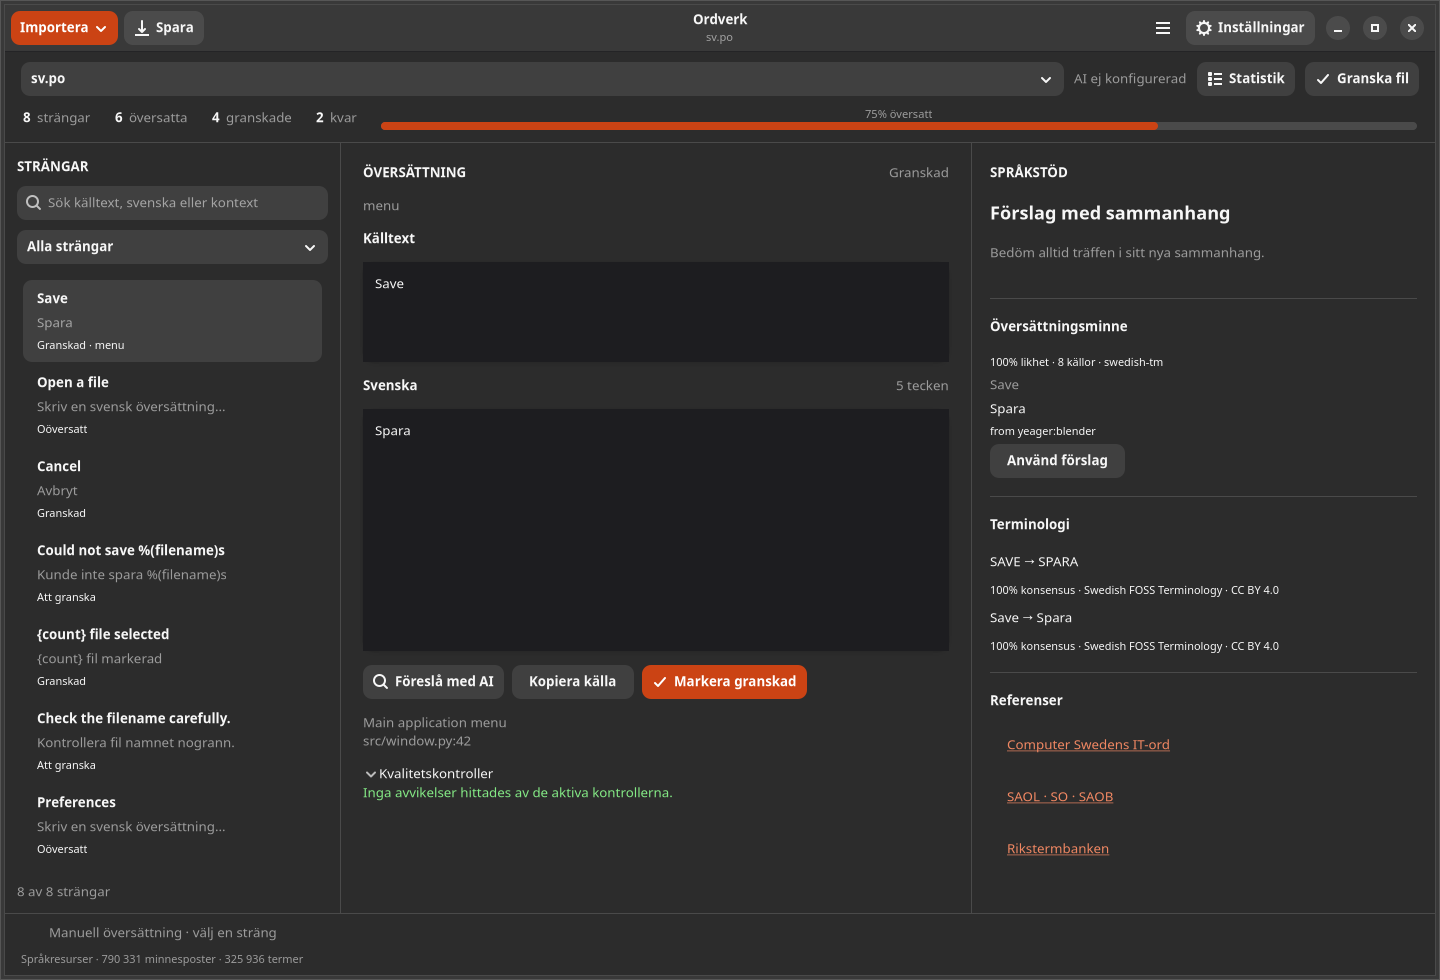
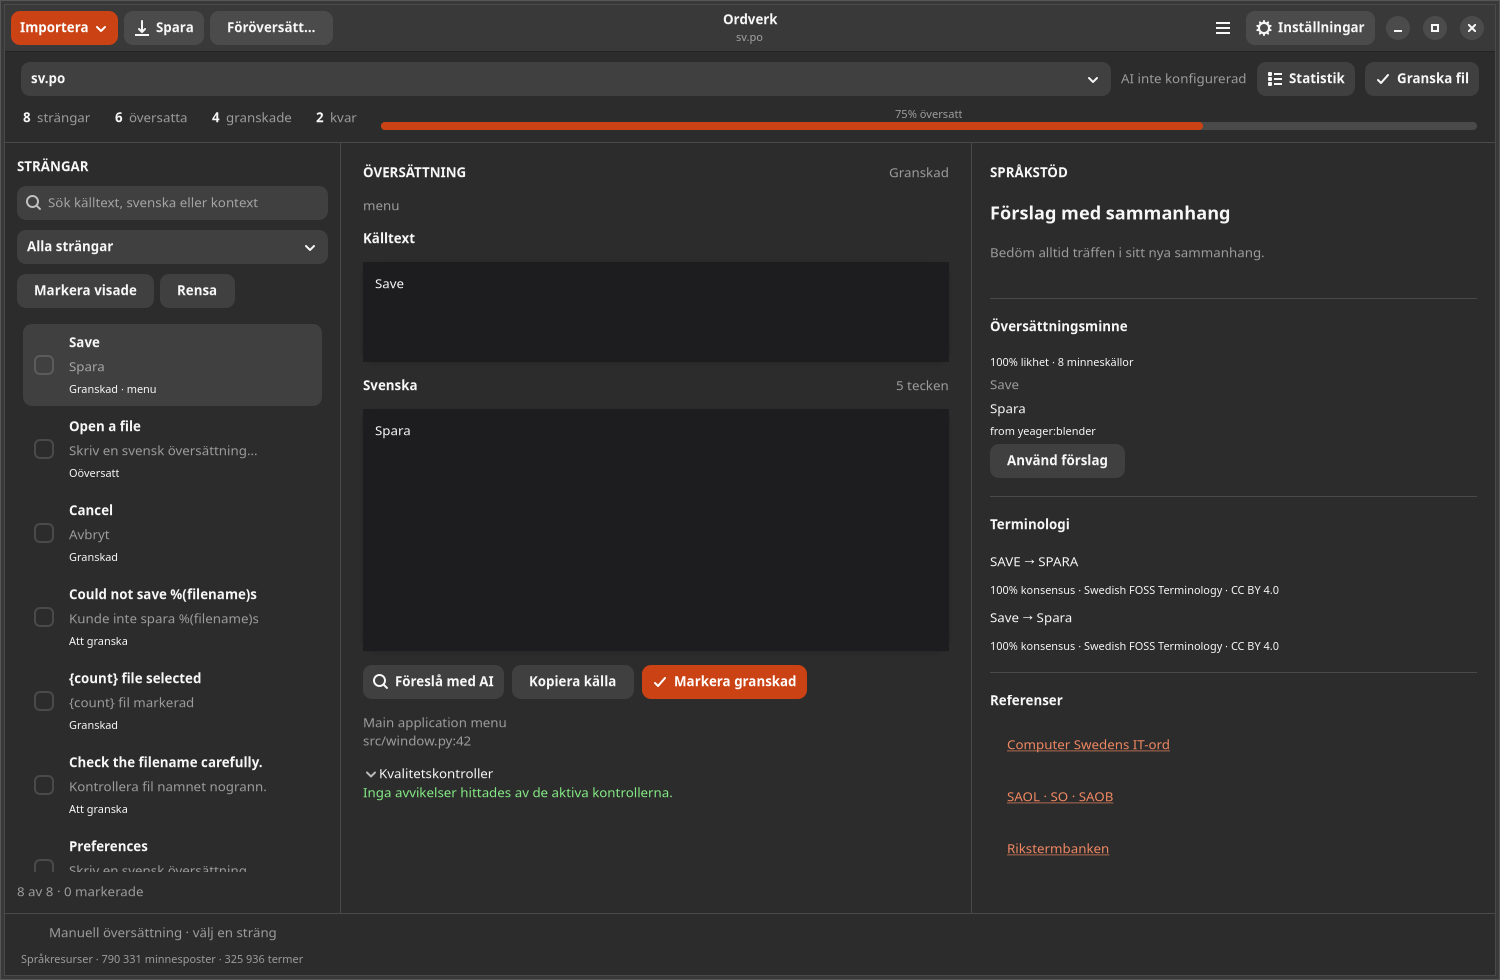
Slutför granskningsflöden, statistik och verifiering inför 0.2

diff --git a/src/ordverk/workflow.py b/src/ordverk/workflow.py
@@ -36,43 +36,43 @@ def batch_translate(catalogs, store, quality, translator=None, *, limit=100, can
     total = min(limit, eligible)
     try:
         for catalog, unit in work:
-                for variant, target in enumerate(unit.targets):
-                    check_cancel(cancel)
-                    if (target and not overwrite) or unit.source_is_key:
-                        continue
-                    if attempted >= limit:
-                        messages.append(f"Gränsen {limit} strängar nåddes. Starta igen för att fortsätta.")
+            for variant, target in enumerate(unit.targets):
+                check_cancel(cancel)
+                if (target and not overwrite) or unit.source_is_key:
+                    continue
+                if attempted >= limit:
+                    messages.append(f"Gränsen {limit} strängar nåddes. Starta igen för att fortsätta.")
+                    return changes, messages
+                attempted += 1
+                progress(f"Översätter {attempted}/{total}: {unit.source_for(variant)[:65]}", attempted - 1, total)
+                exact = store.exact_translation(unit.source_for(variant), unit.context) if method != "ai" else None
+                proposal, origin, issues = None, "", []
+                # Conflicting exact matches need context: don't let frequency silently decide.
+                if exact:
+                    proposal, origin = exact
+                    candidate = copy.deepcopy(unit)
+                    candidate.edit(variant, proposal)
+                    issues = quality.check(candidate, variant)
+                elif translator is not None and method != "resources":
+                    try:
+                        result = translator.suggest(unit, variant, cancel)
+                        proposal, origin, issues = result.translation, f"AI · {result.model}", result.issues
+                    except ValueError as exc:
+                        messages.append(f"{catalog.name}: {exc}")
+                        # Stop on API errors instead of repeatedly spending requests on a failing service.
                         return changes, messages
-                    attempted += 1
-                    progress(f"Översätter {attempted}/{total}: {unit.source_for(variant)[:65]}", attempted - 1, total)
-                    exact = store.exact_translation(unit.source_for(variant), unit.context) if method != "ai" else None
-                    proposal, origin, issues = None, "", []
-                    # Conflicting exact matches need context: don't let frequency silently decide.
-                    if exact:
-                        proposal, origin = exact
-                        candidate = copy.deepcopy(unit)
-                        candidate.edit(variant, proposal)
-                        issues = quality.check(candidate, variant)
-                    elif translator is not None and method != "resources":
-                        try:
-                            result = translator.suggest(unit, variant, cancel)
-                            proposal, origin, issues = result.translation, f"AI · {result.model}", result.issues
-                        except ValueError as exc:
-                            messages.append(f"{catalog.name}: {exc}")
-                            # Stop on API errors instead of repeatedly spending requests on a failing service.
-                            return changes, messages
-                    if proposal is not None and proposal != target:
-                        if any(issue.severity == "error" for issue in issues):
-                            messages.append(f"{unit.source_for(variant)[:70]}: förslag stoppat av kvalitetsfel.")
-                        else:
-                            changes.append(Change(catalog, unit.key, unit.revision, variant, target, proposal, origin, issues))
-                    progress(f"Föröversätter {attempted}/{total}", attempted, total)
+                if proposal is not None and proposal != target:
+                    if any(issue.severity == "error" for issue in issues):
+                        messages.append(f"{unit.source_for(variant)[:70]}: förslag stoppat av kvalitetsfel.")
+                    else:
+                        changes.append(Change(catalog, unit.key, unit.revision, variant, target, proposal, origin, issues))
+                progress(f"Föröversätter {attempted}/{total}", attempted, total)
     except Cancelled:
         messages.append("Arbetet avbröts. Färdiga förslag finns kvar.")
     return changes, messages
 
 
-def apply_changes(changes):
+def apply_changes(changes, on_applied=None):
     applied, skipped = 0, 0
     # All forms share a revision, so compare against the revision at the start of application.
     catalogs = {id(change.catalog): change.catalog for change in changes}
@@ -84,5 +84,7 @@ def apply_changes(changes):
             skipped += 1
             continue
         unit.edit(change.variant, change.after)
+        if on_applied:
+            on_applied(change)
         applied += 1
     return applied, skipped

diff --git a/src/ordverk/ui.py b/src/ordverk/ui.py
@@ -914,13 +914,14 @@ class Window(Adw.ApplicationWindow):
                 return
             unit.reviewed = True
             unit.revision += 1
-            if not unit.source_is_key:
-                for variant, target in enumerate(unit.targets):
-                    self.store.remember(unit.source_for(variant), target, unit.context)
             self.refresh_files()
             if self.catalog is catalog:
                 self.filter_units()
-            self.status.set_label("Granskad · sparad som förslag i ditt eget översättningsminne")
+            self.status.set_label("Strängen är granskad")
+            if not unit.source_is_key:
+                values = [(unit.source_for(v), target, unit.context) for v, target in enumerate(unit.targets)]
+                self.job("Sparar i ditt eget översättningsminne…", lambda _: [self.store.remember(*value) for value in values],
+                         lambda _: self.status.set_label("Granskad · sparad som förslag i ditt eget översättningsminne"))
         self.job("Kontrollerar alla varianter…", check, done)
 
     def start_workflow(self, catalogs, purpose, automatic, use_ai):
@@ -936,11 +937,7 @@ class Window(Adw.ApplicationWindow):
 
             def done(result):
                 changes, messages = result
-                applied, skipped = apply_changes(changes)
-                for change in changes:
-                    matching = next((u for u in change.catalog.units if u.key == change.key), None)
-                    if matching and matching.targets[change.variant] == change.after:
-                        self.session_statistics["ai" if change.origin.startswith("AI ·") else "memory"] += 1
+                applied, skipped = self.apply_translations(changes)
                 self.refresh_files()
                 self.filter_units()
                 self.update_statistics()
@@ -956,6 +953,11 @@ class Window(Adw.ApplicationWindow):
             PretranslateDialog(self).present()
         else:
             self.toast("Importera en fil först.")
+
+    def apply_translations(self, changes):
+        def count(change):
+            self.session_statistics["ai" if change.origin.startswith("AI ·") else "memory"] += 1
+        return apply_changes(changes, on_applied=count)
 
     def run_pretranslation(self, catalog, selected, method, overwrite):
         return self.job("Tar fram föröversättningar…", lambda cancel: batch_translate(
@@ -978,7 +980,7 @@ class Window(Adw.ApplicationWindow):
         text.get_buffer().set_text("\n\n".join(rows + messages) or "Inga nya förslag. Kontrollera källtexter och tillgängliga språkresurser.")
         root.append(scroll(text, vexpand=True))
         def apply():
-            applied, skipped = apply_changes(changes)
+            applied, skipped = self.apply_translations(changes)
             self.refresh_files()
             self.filter_units()
             self.update_statistics()
@@ -1132,7 +1134,7 @@ class Window(Adw.ApplicationWindow):
         box.append(label(f"{total.files} filer · {total.total} strängar · {total.source_words} ord i källtexterna", "dim-label"))
         box.append(label(f"{total.translated} översatta  ·  {total.reviewed} granskade  ·  {total.needs_review} att granska  ·  {total.remaining} återstår", wrap=True))
         box.append(label(f"Plural- och längdvarianter: {total.translated_variants} av {total.variants} ifyllda."))
-        box.append(label(f"Tillämpade förslag denna session: {self.session_statistics['memory']} från minnet, {self.session_statistics['ai']} från AI."))
+        box.append(label(f"Tillämpade förslag denna session: {self.session_statistics['memory']} från språkresurser, {self.session_statistics['ai']} från AI."))
         grid = Gtk.Grid(column_spacing=22, row_spacing=12)
         for col, title in enumerate(["Fil", "Strängar", "Översatta", "Granskade", "Kvar"]):
             grid.attach(label(title, "heading"), col, 0, 1, 1)

diff --git a/src/ordverk/diff_dialog.py b/src/ordverk/diff_dialog.py
@@ -2,7 +2,6 @@
 import copy
 
 from .dialogs import Adw, Gtk
-from .importers import check_cancel
 
 
 class DiffDialog(Adw.Window):
@@ -88,20 +87,25 @@ class DiffDialog(Adw.Window):
         def check(cancel):
             errors = []
             for unit in proposal.changed:
-                check_cancel(cancel)
+                if cancel.is_set():
+                    return proposal, ["Granskningen avbröts. Dina diffändringar finns kvar här."]
                 if unit.reviewed:
                     if not all(unit.targets):
                         errors.append(f"{unit.source}: alla varianter behöver översättas innan de godkänns.")
                     for variant in range(len(unit.targets)):
                         errors.extend(i.message for i in self.parent.quality.check(unit, variant) if i.severity == "error")
+            return proposal, errors
+        def done(result):
+            self.set_sensitive(True)
+            ready, errors = result
             if errors:
-                raise ValueError("Åtgärda felen eller välj luddig status:\n" + "\n".join(errors))
-            return proposal
-        def done(ready):
+                self.parent.error("Åtgärda felen eller välj luddig status:\n" + "\n".join(errors), parent=self)
+                return
             ready.apply()
             self.parent.refresh_files()
             self.parent.filter_units()
             self.parent.update_statistics()
             self.parent.toast("Diffens ändringar är inkluderade. Spara filen när du är klar.")
-        if self.parent.job("Kontrollerar diffens granskade strängar…", check, done):
             self.close()
+        if self.parent.job("Kontrollerar diffens granskade strängar…", check, done):
+            self.set_sensitive(False)

diff --git a/docs/VERIFIERING.md b/docs/VERIFIERING.md
@@ -1,25 +1,70 @@
-# Verifiering av Ordverk 0.1.0
+# Verifiering av Ordverk 0.2
 
-Verifierat 20 september 2026 i Linux på ARM64 med Python 3.14, GTK 4.22 och
-libadwaita 1.9.
+Verifierat den 20 september 2026. Första releasen är 0.2.
 
-- 44 automatiserade tester för format, sparning, import, resurser, LLM-kontrakt,
-  svensk diagnostik, statistik och sju sekunders fördröjning av förloppsmätaren.
-- Ett GTK-test under Xvfb för faktisk filimport, redigering, sparning,
-  granskningsmarkering, statistik, förloppsmätare, inställningar och importguide.
-- Statisk Python-kontroll med Ruff och validering av `.desktop`-filen.
-- Byggt källpaket och wheel; wheel installerad i separat virtuell miljö.
-  Installerad GTK-app och appikon har öppnats utan att importera projektets källmapp.
-- Startprogram och ikoninstallation provade i en tillfällig användarkatalog.
-- Fullständig faktisk resurshämtning och indexering: **790 331 minnesposter**
-  från samtliga 15 ekosystem och **325 936 termpar**. Inga hämtningsfel.
-- Faktisk stavningskontroll med cachade `hunspell-sv` och `aspell-sv`:
-  båda accepterar `filnamn` och rapporterar `nogrann` för granskning.
-- API-anrop verifierade mot en lokal HTTP-testserver, inklusive promptkontext,
-  JSON-svar, ogiltiga svar och HTTP 429. Inget betalt externt API-anrop har utförts.
+## Programmet
 
-Gränserna för 0.1.0 beskrivs i README: JSON-granskningsstatus gäller under
-sessionen, privata GitHub-källor importeras lokalt, och filgranskning använder
-l10n-lint medan extra språk-/stavningsråd visas per sträng. Appen sparar
-aktuella filer i samma format och erbjuder ännu inte formatkonvertering eller
-ett beständigt projektformat.
+- 62 automatiserade tester täcker PO/TS/XLIFF/JSON, XML-koder, pluralformer,
+  säkra sparningar, externa ändringar, import, diff, granskningsstatus,
+  föröversättning, API-kontrakt, resurser, statistik och förloppsmätare.
+- GTK-testet öppnar riktiga fönster under Xvfb och provar import, redigering,
+  sparning, granskning, statistik, förlopp, diffredigering, markerade strängar,
+  inställningar, fyra tjänsteprofiler och TP:s e-postförval.
+- Ruff och desktop-file-validate passerar. AppStream-validering passerar.
+- Installerad source-version och `.desktop`-startprogram har verifierats lokalt.
+  Källkod, PNG-ikon, `.desktop`, AppStream och manualsida ingår i paketen.
+
+## Språkresurser
+
+Fullständig faktisk hämtning och indexering finns i `~/.ordverk`:
+**790 331 minnesposter** från alla 15 ekosystem och **325 936 termpar**.
+Både Hunspell och Aspell använder användarens cache och accepterar `filnamn`
+men rapporterar `nogrann`. Uppdatering av båda ordlistorna passerade utan fel.
+Färdiga ordlistegenerationer aktiveras atomiskt; ett test bryter uppdateringen
+mellan `.aff` och `.dic` och verifierar att föregående par fortfarande används.
+
+## Paketering och CI
+
+GitHub Actions har separata jobb för Linux/GTK, Gitleaks, Debian och Fedora.
+[CI-körningen 35496578125](https://github.com/yeager/ordverk/actions/runs/35496578125)
+verifierade samtliga fyra jobb. Releasekontrollen kräver också en grön körning
+för den slutliga release-revisionen.
+
+Debian-bygget använder debhelper, pybuild och dh-python, kontrolleras med
+Lintian och installeras med apt. Fedora använder pyproject-rpm-macros,
+kontrolleras med rpmlint och installeras med dnf. Båda installationerna
+startar det installerade GTK-paketet och hittar programikonen utan import
+från källkodsmappen. RPM-kontrollen rapporterade **0 fel och 0 varningar**.
+Lintian passerade utan fel eller varningar. Signaturkontrollen för RPM är
+undantagen eftersom upstream-paketen inte GPG-signeras; SHA-256 följer releasen.
+Debians initial-upload-varning är uttryckligen undantagen eftersom dessa är
+upstream-paket, utan ett Debian-ITP-ärende.
+
+`l10n-lint` och `svlang` byggs som separata beroendepaket, från fastställda
+Git-revisioner med verifierade arkivhashar. Native installation kör inte pip
+eller nätverkshämtning av kod. Källpaket och bygginformation ingår.
+
+## API- och leveranskontroller
+
+En lokal HTTP-server verifierar autentisering, request-metoder, sökvägar,
+JSON- och multipart-innehåll för GitHub, Weblate, Transifex och Crowdin.
+Testerna täcker GitHubs SHA-villkor, skydd mot ändrad Weblate-fil, Transifex
+asynkrona status/redirect och Crowdin storage/translation-import. Nycklar följer
+inte signerade nedladdningsadresser. E-posttestet tolkar MIME-utkastet och
+jämför bilagan byte för byte samt kontrollerar TP-adress och ämnesrad.
+
+LLM-stödet provas mot en lokal OpenAI-kompatibel HTTP-server, inklusive
+promptkontext, ogiltiga svar och HTTP 429. Tester har inte skickat översättningar
+till verkliga externa projekt, skickat e-post eller anropat ett betalt LLM-API.
+Det kräver att användaren konfigurerar sin tjänst och väljer att skicka.
+
+## Avgränsningar
+
+- Diff-import hanterar unified textdiffar mot öppnade grundfiler, inte binära
+  patchar eller skapande/borttagning av hela filer.
+- Sparning bevarar filformatet; ingen formatkonvertering erbjuds.
+- JSON:s lokala granskningsstatus och källreferenser följer inte med filen till
+  andra program, eftersom JSON saknar standard för detta.
+- E-post lämnas som utkast till e-postprogrammet för slutlig sändning.
+- Weblate, Transifex och Crowdin saknar ett atomiskt filvillkor motsvarande
+  GitHubs SHA. Ordverk jämför fjärrfilen igen före uppladdning.

diff --git a/docs/KRAV.md b/docs/KRAV.md
@@ -1,0 +1,25 @@
+# Kravspårning för 0.2
+
+| Användarkrav | Implementation | Verifiering |
+| --- | --- | --- |
+| GTK-app för Linux | GTK4/libadwaita, systempaket och körbart startprogram | GTK-test och installation i Debian/Fedora |
+| Endast svenskt gränssnitt, använd ”inte” | Svensk UI-text och svenskt språkval för GTK | Visuell granskning, källtextsökning och GTK-test |
+| PO, TS, XLIFF, JSON; redigera varje sträng | Formatbevarande katalogmodell, plural- och längdvarianter | test_catalog.py och GTK-test |
+| Alla sex angivna språkprojekt | TM, terminologi, l10n-lint, svlang, cachad Hunspell och Aspell | Faktiska data/ordkontroller och tjänstetester |
+| Valfritt OpenAI-kompatibelt API | Konfigurerbar adress, modell och säker nyckellagring | Lokal HTTP-kontraktsserver och feltester |
+| Fil, mapp, URL och fler importvägar | Flera filer, rekursion, drag/släpp, GitHub-URL och tjänsteprofiler | Importtester och GTK-test |
+| Senaste statiska data i .ordverk, uppdatering vid start | Git-versioner, ETag, lokalt index och separat ordlisteaktivering | Cache-, offline- och avbruten uppdateringstester; verklig cache |
+| Enkla/avancerade inställningar och valfri importguide | Två inställningssidor; granska/översätta och manuellt/automatiskt | GTK-test |
+| Genererad ikon, även i .desktop | Godkänd PNG, programikon och menyinstallation | Installerad ikon i två paketmiljöer och lokalt |
+| Förloppsmätare efter sju sekunder | Fördröjda mätare för jobb, resurser, granskning och uppslag | Tidsgränstest och GTK-test med synlig mätare |
+| Statistik | Totalt/per fil, granskade, kvar, ord, varianter och använda förslag | Statistiktester och GTK-test |
+| Föröversätt fil, en eller flera strängar | Kryssmarkering, omfattningsval, resurser/AI, förhandsgranskning | Urvals-, konflikt-, AI- och samtidighetstester |
+| GitHub, Weblate, Transifex, Crowdin import/export | API-profiler och export med diff/granskning | HTTP-kontrakt för samtliga fyra; GTK-profiler |
+| E-post och TP-förval | robot@translationproject.org, filnamn som ämne, MIME-bilaga | MIME-parsning, exakt bilagejämförelse och GTK-test |
+| Diff-import: granskad, fuzzy eller manuell redigering | Strikt diffmatchning och redigerbar förhandsgranskning | Diffroundtrip i båda statuslägen, redigering och konflikter |
+| Första release 0.2, yeager/ordverk | Enhetlig version, offentligt GitHub-förråd och releasepaket | Versionskontroller, CI, release och SHA256SUMS |
+| Gitleaks | Lokal skanning och separat CI-jobb för Git-historiken | Inga upptäckta hemligheter |
+| Linux-CI, DEB/RPM enligt standard | debhelper/pybuild, RPM-makron, separata bibliotekspaket, standardplatser, beroenden, licenser, manualer | Lintian, rpmlint, apt/dnf-installation och start av installerat program |
+
+API-testerna verifierar implementationens kontrakt. De innebär inte att filer
+har skickats till användarens externa projekt eller att e-post har sänts.

diff --git a/docs/API.md b/docs/API.md
@@ -1,0 +1,21 @@
+# Integrationskontrakt
+
+Ordverk använder följande primära API-dokumentation:
+
+- [GitHub: repository contents](https://docs.github.com/en/rest/repos/contents):
+  GET för import och PUT med blob-SHA för en filcommit på vald gren.
+- [Weblate: REST API](https://docs.weblate.org/en/latest/api.html):
+  GET/POST av översättningsfil; multipart med translate/suggest och konflikthantering.
+- [Transifex API v3](https://transifex.github.io/openapi/):
+  resource_translations_async_downloads och resource_translations_async_uploads;
+  JSON:API-relationer, multipart, statuspollning och signerad nedladdning.
+- [Crowdin: Translations API](https://crowdin.github.io/crowdin-api-client-python/api_resources/translations/resource.html):
+  byggd filöversättning, storage-uppladdning och import för svenska.
+- [Translation Projects robot](https://translationproject.org/html/robot.html):
+  robot@translationproject.org, paket-version.sv.po som ämne, filen som bilaga.
+- [OpenAI-kompatibla Chat Completions](https://developers.openai.com/api/reference/python/resources/chat/subresources/completions/methods/create):
+  messages, model, choices och JSON-innehåll. Adress och modell kan väljas fritt.
+
+Anslutningarna delar inte API-nycklar mellan ändrade basadresser. Exportåtgärder
+skickas bara efter att användaren sett och valt att skicka den konkreta filen.
+Vid ett oklart nätverksfel efter sändning återförsöker Ordverk inte automatiskt.
